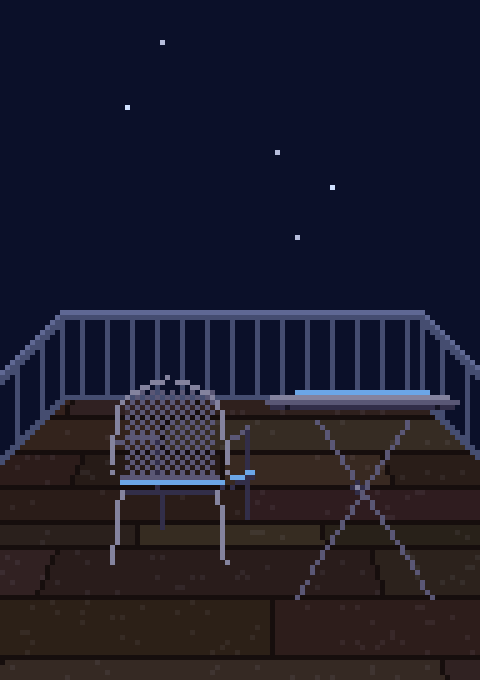
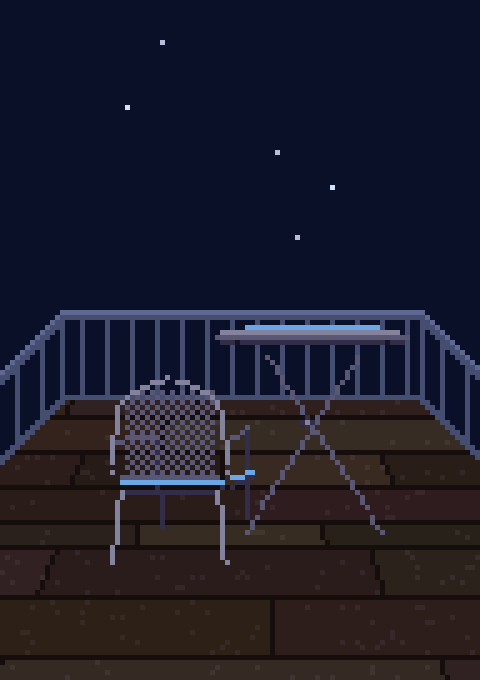
Balcony 2D: table moved in front of chair (chair facing side)
Claude-Session: https://claude.ai/code/session_01FPZSaKiVNU2zED737yZX4w

diff --git a/tools/render_balcony2d.py b/tools/render_balcony2d.py
@@ -74,7 +74,7 @@ def main():
             for w in range(TW): seg((xx + w, top_y + d + ST), (xx + w, base_y + d - 1), MR)
     # 쇠 의자와 탁자: 땅 위
     t = lib['iron_table']; c = lib['iron_chair']
-    im.alpha_composite(t, (52, 121 - t.height)); im.alpha_composite(c, (18, 114 - c.height))
+    im.alpha_composite(t, (42, 108 - t.height)); im.alpha_composite(c, (18, 114 - c.height))
     # 밤의 색조
     for y in range(H):
         for x in range(W):
